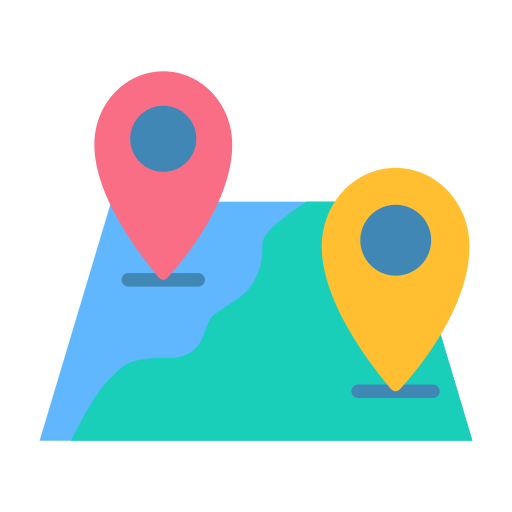
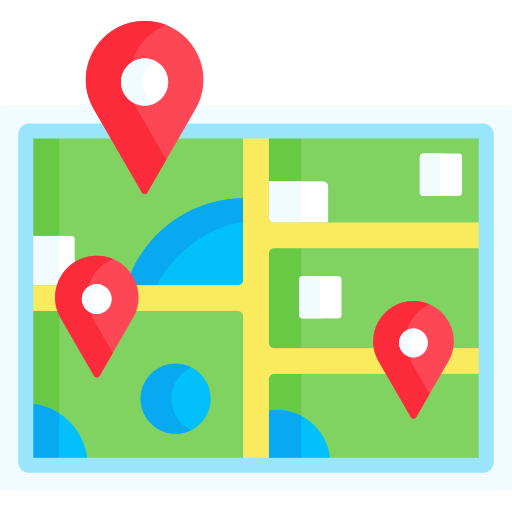
feat: 조종사 작업목록 중단됨 탭 추가중

diff --git a/project/src/main/resources/templates/page/pilot/dashboard.html b/project/src/main/resources/templates/page/pilot/dashboard.html
@@ -110,12 +110,13 @@
                     <button type="button" class="active" data-filter="all">전체</button>
                     <button type="button" data-filter="active">진행 중</button>
                     <button type="button" data-filter="done">완료</button>
+                    <button type="button" data-filter="interrupted" class="tab-interrupted" hidden>중단됨</button>
                 </div>
 
                 <!-- [추가] 내 작업 목록: 서버가 전부 그리고, 탭 필터는 JS가 보였다/숨겼다 -->
                 <ul class="pilot-task-list" id="pilot-task-list" th:data-selected="${selectedNo}">
                     <li th:each="t : ${myTasks}"
-                        th:data-group="${t.status == 'COMPLETED'} ? 'done' : 'active'">
+                        th:data-group="${t.status == 'COMPLETED'} ? 'done' : (${t.status == 'INTERRUPTED'} ? 'interrupted' : 'active')">
                         <button type="button" class="pilot-task"
                                 th:classappend="${t.no == selectedNo} ? 'selected'"
                                 th:data-no="${t.no}"

diff --git a/project/src/main/resources/static/js/pilot/pilot-gps.js b/project/src/main/resources/static/js/pilot/pilot-gps.js
@@ -274,8 +274,8 @@ function startRealGpsAuto() {
     window.myFlightTrackCoords.push([latitude, longitude]);
 
     // 3. 단장 대시보드로 실시간 웹소켓 발행
-    stompClient.send("/pub/location", {}, JSON.stringify({
-      pilotName: $("#pilotName").val(),
+     stompClient.send("/pub/location", {}, JSON.stringify({
+      pilotName: $("#myPilotName").val(),
       latitude,
       longitude,
     }));
